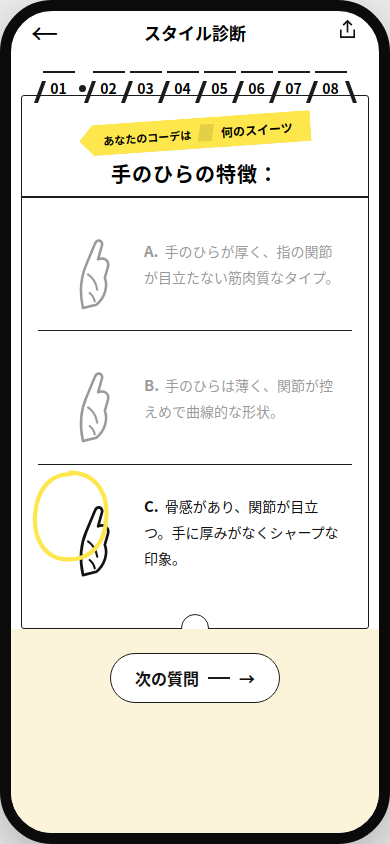
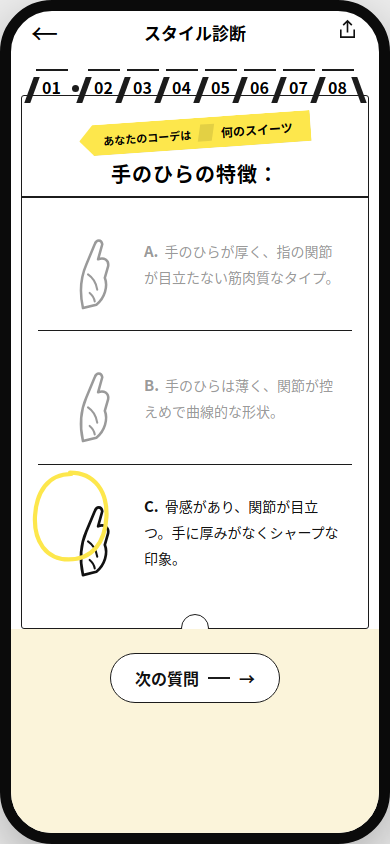
docs: tab 加粗加大，对齐参考图分量

Changed region(s): [[0.0615, 0.0616, 0.9538, 0.1232]]

diff --git a/prototype/style-shindan/style-shindan-repro.html b/prototype/style-shindan/style-shindan-repro.html
@@ -46,11 +46,11 @@
     display:flex; justify-content:center; align-items:flex-end; pointer-events:none;
   }
   .step { display:flex; align-items:flex-end; margin:0; }
-  .step .sl { width:4px; height:22px; background:#1c1c1c; transform:skewX(-20deg); margin:0 1px -6px 0; flex:none; }
+  .step .sl { width:6px; height:26px; background:#1c1c1c; transform:skewX(-20deg); margin:0 1px -6px 0; flex:none; }
   .step .sl.r { transform:skewX(20deg); margin:0 0 -6px 2px; }
   .step .tcell { display:flex; flex-direction:column; align-items:stretch; }
-  .step .ol { height:2px; background:#1c1c1c; width:32px; margin-bottom:8px; }
-  .step .nm { font-size:14px; font-weight:700; line-height:1; padding-bottom:2px; text-align:center; font-style:normal; }
+  .step .ol { height:2.5px; background:#1c1c1c; width:32px; margin-bottom:8px; }
+  .step .nm { font-size:16px; font-weight:700; line-height:1; padding-bottom:2px; text-align:center; font-style:normal; }
   .step .dt { width:7px; height:7px; border-radius:50%; background:#1c1c1c; margin:0 2px 5px 4px; flex:none; }
   .card {
     margin:42px 10px 0; border:1.6px solid #1c1c1c; border-radius:3px;
